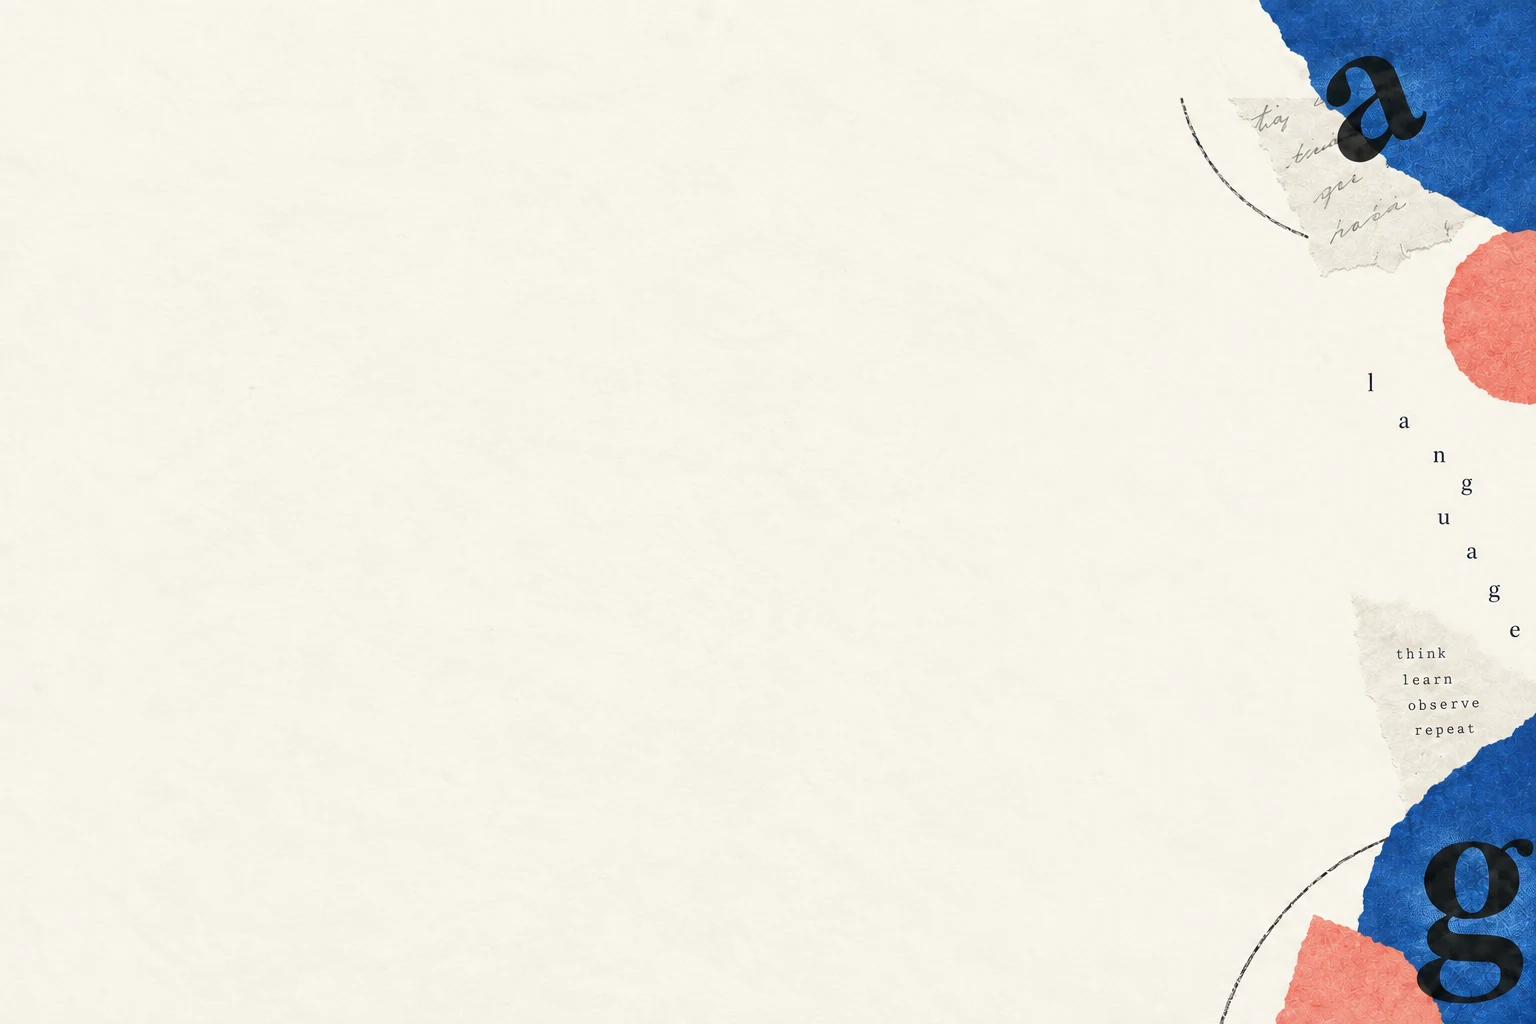
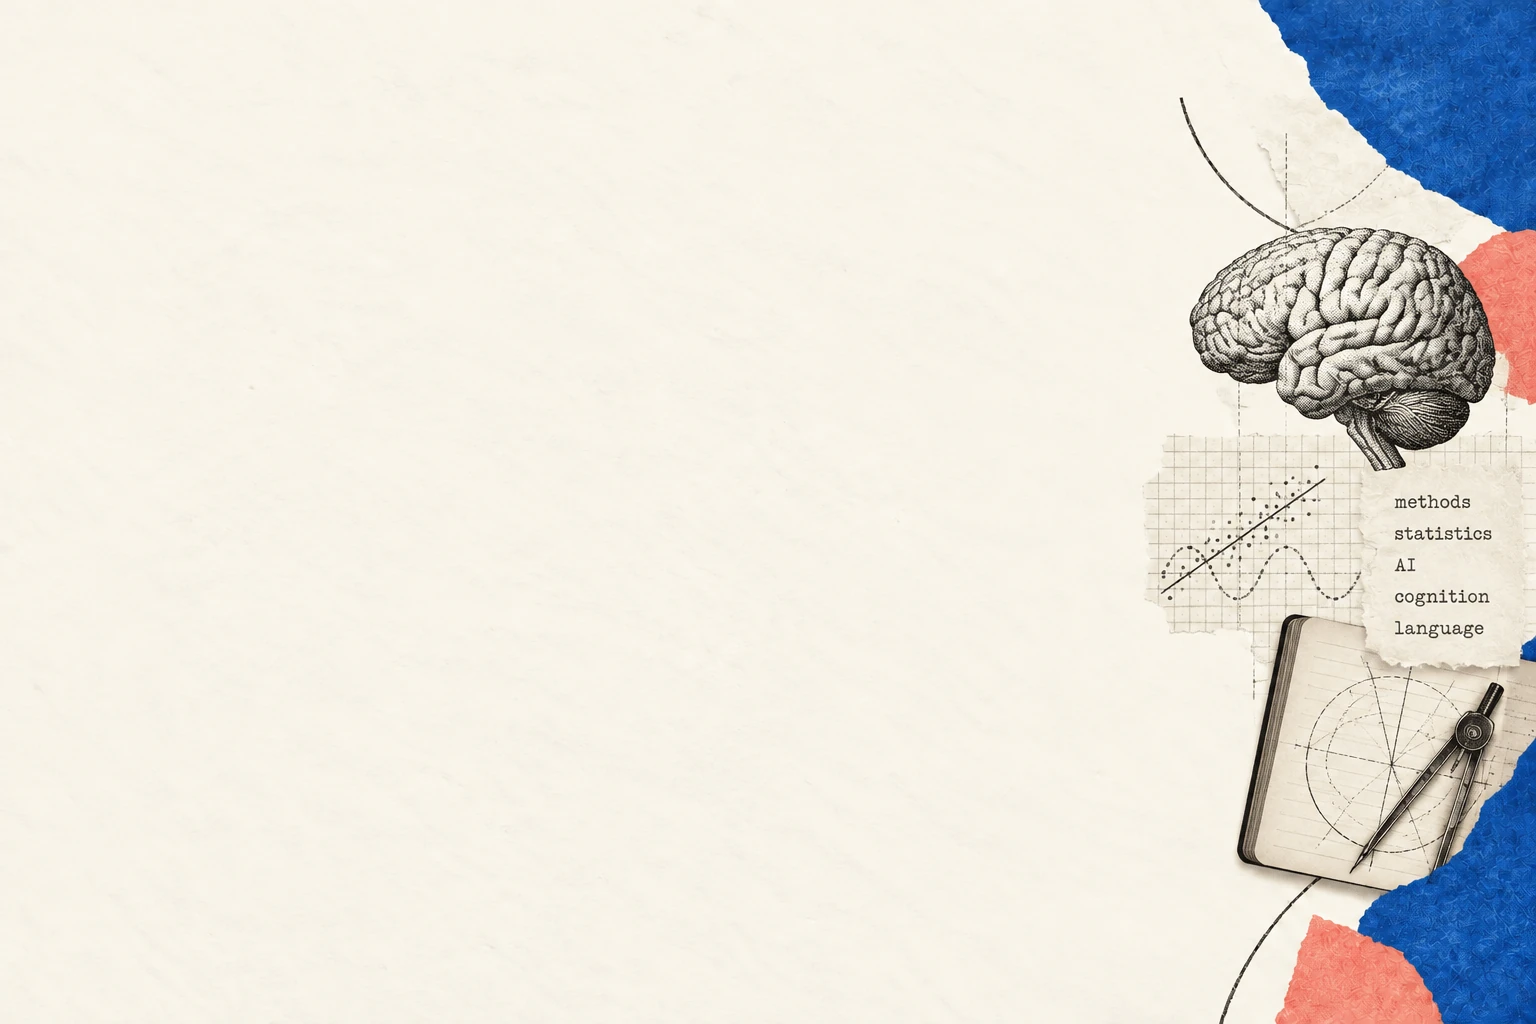
content: refocus research and lab pages on breathing

Changed region(s): [[0.75, 0.0312, 1.0, 1.0]]

diff --git a/research.md b/research.md
@@ -5,55 +5,39 @@ permalink: /research/
 published: true
 ---
 
-I study human cognition, memory, and language, and how they interact with bodily states such as breathing and sleep. Alongside this, I work on research methods and how AI is changing psychological research.
+I lead the [Breathing and Cognition Lab]({{ '/lab/' | relative_url }}) at the University of Hull. My research investigates how human cognition, memory, and attention interact with breathing and bodily states, alongside work on research methods, open science, and AI in psychological research.
 
-One strand of my work looks at how sleep and breathing affect memory, visual attention, and cognition. This grew out of earlier research on word learning, language processing, and memory consolidation in sleep. My current work combines laboratory studies of respiration with large open datasets to examine how physiological regulation relates to cognition, health, and wellbeing.
+## Breathing, bodily state, and cognition
 
-A second strand focuses on research methods, open science, and metascience. I work on measurement precision, test retest reliability, effect sizes in repeated measures designs, meta analysis, and publication bias. Alongside this, I am interested in the psychology of AI and AI for science, including how people trust and take responsibility for AI assisted analysis, and how AI tools can support reproducible research.
+How do the rhythms and pathways of breathing shape the way we attend, remember, and act, and how do cognitive demands in turn alter how we breathe?
 
-## Respiration, physiological state and cognition
-
-This work examines relationships between breathing and cognitive performance, including memory consolidation, visual search and visuospatial attention. Projects investigate both the route of breathing and the timing of events within the respiratory cycle.
+In laboratory studies using respiratory recording and eye tracking, we investigate both the route of breathing (nasal versus oral) and how visual perception, attention, and memory encoding vary across the inhalation and exhalation cycle. Alongside experimental work, we analyse large open physiological and neuroimaging cohorts to study individual differences in human breathing patterns, their stability across rest and cognitive tasks, and how respiratory regulation relates to brain activity, sleep, and wellbeing.
 
 - [Does oral breathing disrupt memory consolidation during waking rest? A registered report](https://doi.org/10.1177/17470218251328994) (2025).
 - Respiratory phase and visuospatial attention: A replication and extension (Roberts et al., 2026). [PsyArXiv](https://osf.io/preprints/psyarxiv/n5ha3_v1).
+- The impact of oral and nasal breathing on visual search performance: A pre registered replication and extension (Richards et al., under review).
 
-## Measurement, research methods and AI
+## Measurement, research methods, and AI
 
-My methodological interests focus on how psychological studies can produce more informative and dependable evidence. I am particularly interested in measurement precision, effect sizes, statistical power, replication, registered reports and meta analysis. Current interests include interpreting interaction effect sizes, representing dependence in repeated measures designs, and understanding how publication bias, heterogeneity and study design affect the strength and variability of evidence.
+A second strand of my work focuses on how psychological and physiological studies can produce more informative and dependable evidence. I work on measurement precision, test retest reliability, effect sizes and dependence in repeated measures designs, meta analysis, and publication bias. This includes developing open methods for validating and calibrating respiratory recordings against reference airflow measures.
 
-This includes examining how researchers check AI assisted analyses and retain responsibility for the decisions they make.
+Alongside this, I study the psychology of AI and how AI tools are changing scientific practice, including how researchers and students verify AI assisted analyses and retain responsibility for analytical decisions.
 
-- [Developmental psychologists should care about measurement precision](https://doi.org/10.1002/icd.2321) (2022).
-- [Data from an international multi centre study of statistics and mathematics anxieties](https://doi.org/10.5334/jopd.80) (2023).
 - [Same data, different analysts](https://doi.org/10.1186/s12915-024-02101-x) (2025). [PDF]({{ '/papers/Gould_et_al_2025_same_data_different_analysts.pdf' | relative_url }})
+- [Data from an international multi centre study of statistics and mathematics anxieties](https://doi.org/10.5334/jopd.80) (2023).
+- [Developmental psychologists should care about measurement precision](https://doi.org/10.1002/icd.2321) (2022).
 
-## Word learning, memory and sleep
+## Language, memory, and sleep
 
-How does a newly learned word become part of our vocabulary? I study how new words interact with existing knowledge, and how sleep, waking rest and the spacing of learning affect that process. Related work examines how memories change when they are retrieved and how sleep affects their subsequent consolidation.
+My work on breathing and bodily state grew out of earlier research on how newly learned words are integrated into memory over sleep and waking rest, and how language interacts with visual attention and motor systems.
 
 - [Does fast mapping accelerate lexical integration? Evidence from spoken and written novel words](https://doi.org/10.1016/j.jml.2026.104815) (2027). [PDF]({{ '/papers/1-s2.0-S0749596X26000859-main.pdf' | relative_url }})
+- [Verbal fluency difficulties in Chinese insomnia patients: Insights from semantic and phonemic tasks](https://doi.org/10.1080/13803395.2025.2572088) (2025).
 - [How well do children remember fast mapped words?](https://doi.org/10.1002/icd.70019) (2025).
-- [Sleep preserves original and distorted memory traces](https://doi.org/10.1016/j.cortex.2017.10.005) (2018). [PDF]({{ '/papers/cairney2017.pdf' | relative_url }})
-- [Markers of automaticity in sleep associated consolidation of novel words](https://doi.org/10.1016/j.neuropsychologia.2015.03.025) (2015). [PDF]({{ '/papers/Tham_Lindsay_Gaskell.pdf' | relative_url }})
-- [Lexical integration of novel words without sleep](https://doi.org/10.1037/a0029243) (2013). [PDF]({{ '/papers/Lexical_integration_of_novel_words_without_sleep.pdf' | relative_url }})
-
-## Speech perception and production
-
-I investigate how perceptual and motor systems contribute to spoken language processing, and how speech categories adapt through experience. This includes work on learning new words and phonotactic constraints, and on the contribution of premotor cortex to phoneme judgements and comprehension.
-
-- [Acquiring novel words and their past tenses](https://doi.org/10.1016/j.jml.2011.07.005) (2012). [PDF]({{ '/papers/1-s2.0-S0749596X11000763-main.pdf' | relative_url }})
-- [The selective role of premotor cortex in speech perception](https://doi.org/10.1162/jocn_a_00463) (2013). [PDF]({{ '/papers/jocn_a_00463_1_.pdf' | relative_url }})
 - [Plasticity of categories in speech perception and production](https://doi.org/10.1080/23273798.2021.2018471) (2022).
-
-## Language and visual attention
-
-How do people combine language with what they see? I use eye tracking and behavioural tasks to investigate how descriptions of events direct attention and evoke representations of motion and space.
-
-- [Spatial and linguistic aspects of visual imagery in sentence comprehension](https://doi.org/10.1080/03640210701530748) (2007). [PDF]({{ '/papers/Spatial_and_Linguistic_Aspects_of_Visual_Imagery_i.pdf' | relative_url }})
-- [To dash or to dawdle](https://doi.org/10.1371/journal.pone.0067187) (2013).
+- [Sleep preserves original and distorted memory traces](https://doi.org/10.1016/j.cortex.2017.10.005) (2018). [PDF]({{ '/papers/cairney2017.pdf' | relative_url }})
 - [Event processing in the visual world](https://doi.org/10.1037/xlm0000199) (2016). [PDF]({{ '/papers/Event_processing_in_the_visual_world.pdf' | relative_url }})
+- [The selective role of premotor cortex in speech perception](https://doi.org/10.1162/jocn_a_00463) (2013). [PDF]({{ '/papers/jocn_a_00463_1_.pdf' | relative_url }})
+- [Spatial and linguistic aspects of visual imagery in sentence comprehension](https://doi.org/10.1080/03640210701530748) (2007). [PDF]({{ '/papers/Spatial_and_Linguistic_Aspects_of_Visual_Imagery_i.pdf' | relative_url }})
 
-See the full [publication list]({{ '/publications/' | relative_url }}) and current [research students]({{ '/research-students/' | relative_url }}).
-
-Students interested in gaining experience of ongoing research can read about the [Research Assistantship Scheme]({{ '/research-assistantship/' | relative_url }}).
+See the full [publication list]({{ '/publications/' | relative_url }}) and current [research students]({{ '/research-students/' | relative_url }}). Students interested in gaining experience of ongoing research can read about the [Research Assistantship Scheme]({{ '/research-assistantship/' | relative_url }}).

diff --git a/lab.md b/lab.md
@@ -5,14 +5,30 @@ permalink: /lab/
 published: true
 ---
 
-The Breathing and Cognition Lab investigates how breathing and bodily states interact with human cognition, sleep, and wellbeing at the University of Hull.
+The Breathing and Cognition Lab at the University of Hull investigates how human breathing interacts with perception, attention, memory, sleep, and wellbeing.
 
-Alongside our core work on respiration and cognition, the group studies memory consolidation, language processing, quantitative research methods, and the psychology of AI. See [Research]({{ '/research/' | relative_url }}) for current projects and [Research students]({{ '/research-students/' | relative_url }}) for the people in the group.
+Breathing is more than gas exchange. Nasal and oral breathing pathways, the phase of each breath, and changes in respiratory rate and variability are coupled to brain rhythms, autonomic state, and cognitive performance. At the same time, cognitive demands and mental states reshape how we breathe.
+
+## Current themes
+
+- **Breathing phase, attention, and memory:** How do visual attention, eye movements, and memory encoding vary across inhalation and exhalation, and how do people coordinate their breathing with cognitive tasks?
+- **Nasal versus oral breathing:** How does the route of breathing affect visual search and memory consolidation across wakefulness and rest?
+- **Individual differences and respiratory signatures:** How stable are a person's breathing patterns across days, tasks, and resting states, and how do respiratory traits relate to cognition, sleep, and mental wellbeing in large population cohorts?
+- **Respiratory measurement and calibration:** Developing open methods for validating respiratory belt recordings, phase estimation, and event detection against reference airflow measures.
 
 ## Methods
 
-We combine behavioural experiments, respiratory recording, and eye tracking with analyses of large open physiological and neuroimaging datasets.
+We combine laboratory experiments using respiratory recording and eye tracking with large open physiological, sleep, and neuroimaging datasets.
 
-## Working with us
+## Lab theses and outputs
 
-I welcome enquiries from prospective undergraduate and postgraduate research students. Email [S.Lindsay@hull.ac.uk](mailto:{{ site.email }}) with your interests, background, and the degree you are considering. The University provides further information about [postgraduate study](https://www.hull.ac.uk/study/postgraduate).
+- Richards, B., Holle, H., &amp; Lindsay, S. (2025). [Does oral breathing disrupt memory consolidation during waking rest? A registered report](https://doi.org/10.1177/17470218251328994). *Quarterly Journal of Experimental Psychology*.
+- Roberts, T. E., Richards, B., Skarratt, P. A., Fischer, M. H., &amp; Lindsay, S. (2026). [Respiratory phase and visuospatial attention: A replication and extension](https://osf.io/preprints/psyarxiv/n5ha3_v1). *PsyArXiv*.
+- Richards, B., Skarratt, P., Holle, H., &amp; Lindsay, S. (under review). *The impact of oral and nasal breathing on visual search performance: A pre registered replication and extension*.
+- **Bethanie Richards** (PhD, 2025). [*The Influence of Breathing Pathway on Cognitive Processes*](https://hull-repository.worktribe.com/output/5461944).
+- **Timothy Roberts** (MRes, 2026). [*The Influence of Respiratory Cycles on Visuospatial Attention*](https://hull-repository.worktribe.com/output/5679057/the-influence-of-respiratory-cycles-on-visuospatial-attention).
+- **Alfie Hunt** (MSc by Thesis, 2021). *The Impact of Breathing Phase on Encoding, Memory, and Oculomotor Activity*.
+
+## Joining the lab
+
+I welcome enquiries from prospective PhD, MRes, and undergraduate research students interested in breathing, bodily states, sleep, and cognition, including funded PhD applications through the ESRC White Rose Doctoral Training Partnership (Wellbeing, Health and Communities, and Advanced Quantitative Methods / Data Analytics routes). Email [S.Lindsay@hull.ac.uk](mailto:{{ site.email }}) with your interests and background, or see [Research students]({{ '/research-students/' | relative_url }}) for broader supervision areas.

diff --git a/publications.md b/publications.md
@@ -69,7 +69,7 @@ Bergen, B. K., Lindsay, S., Matlock, T., & Narayanan, S. (2007). Spatial and lin
 
 Roberts, T. E., Richards, B., Skarratt, P. A., Fischer, M. H., & Lindsay, S. (Under review). Respiratory phase and visuospatial attention: A replication and extension. *Manuscript under review*. [PsyArXiv](https://osf.io/preprints/psyarxiv/n5ha3_v1).
 
-Terry, J., et al. (Under review). The fault in our STARS: The Statistics Anxiety Rating Scale does not measure statistics anxiety — a multi-lab, multi-study investigation. *Manuscript under review*.
+Terry, J., et al. (Under review). The fault in our STARS: The Statistics Anxiety Rating Scale does not measure statistics anxiety: A multi-lab, multi-study investigation. *Manuscript under review*.
 
 Lindsay, S., & Wibroe, J. (Under review). No evidence that overnight sleep improves associative inference. *Manuscript under review*.
 
